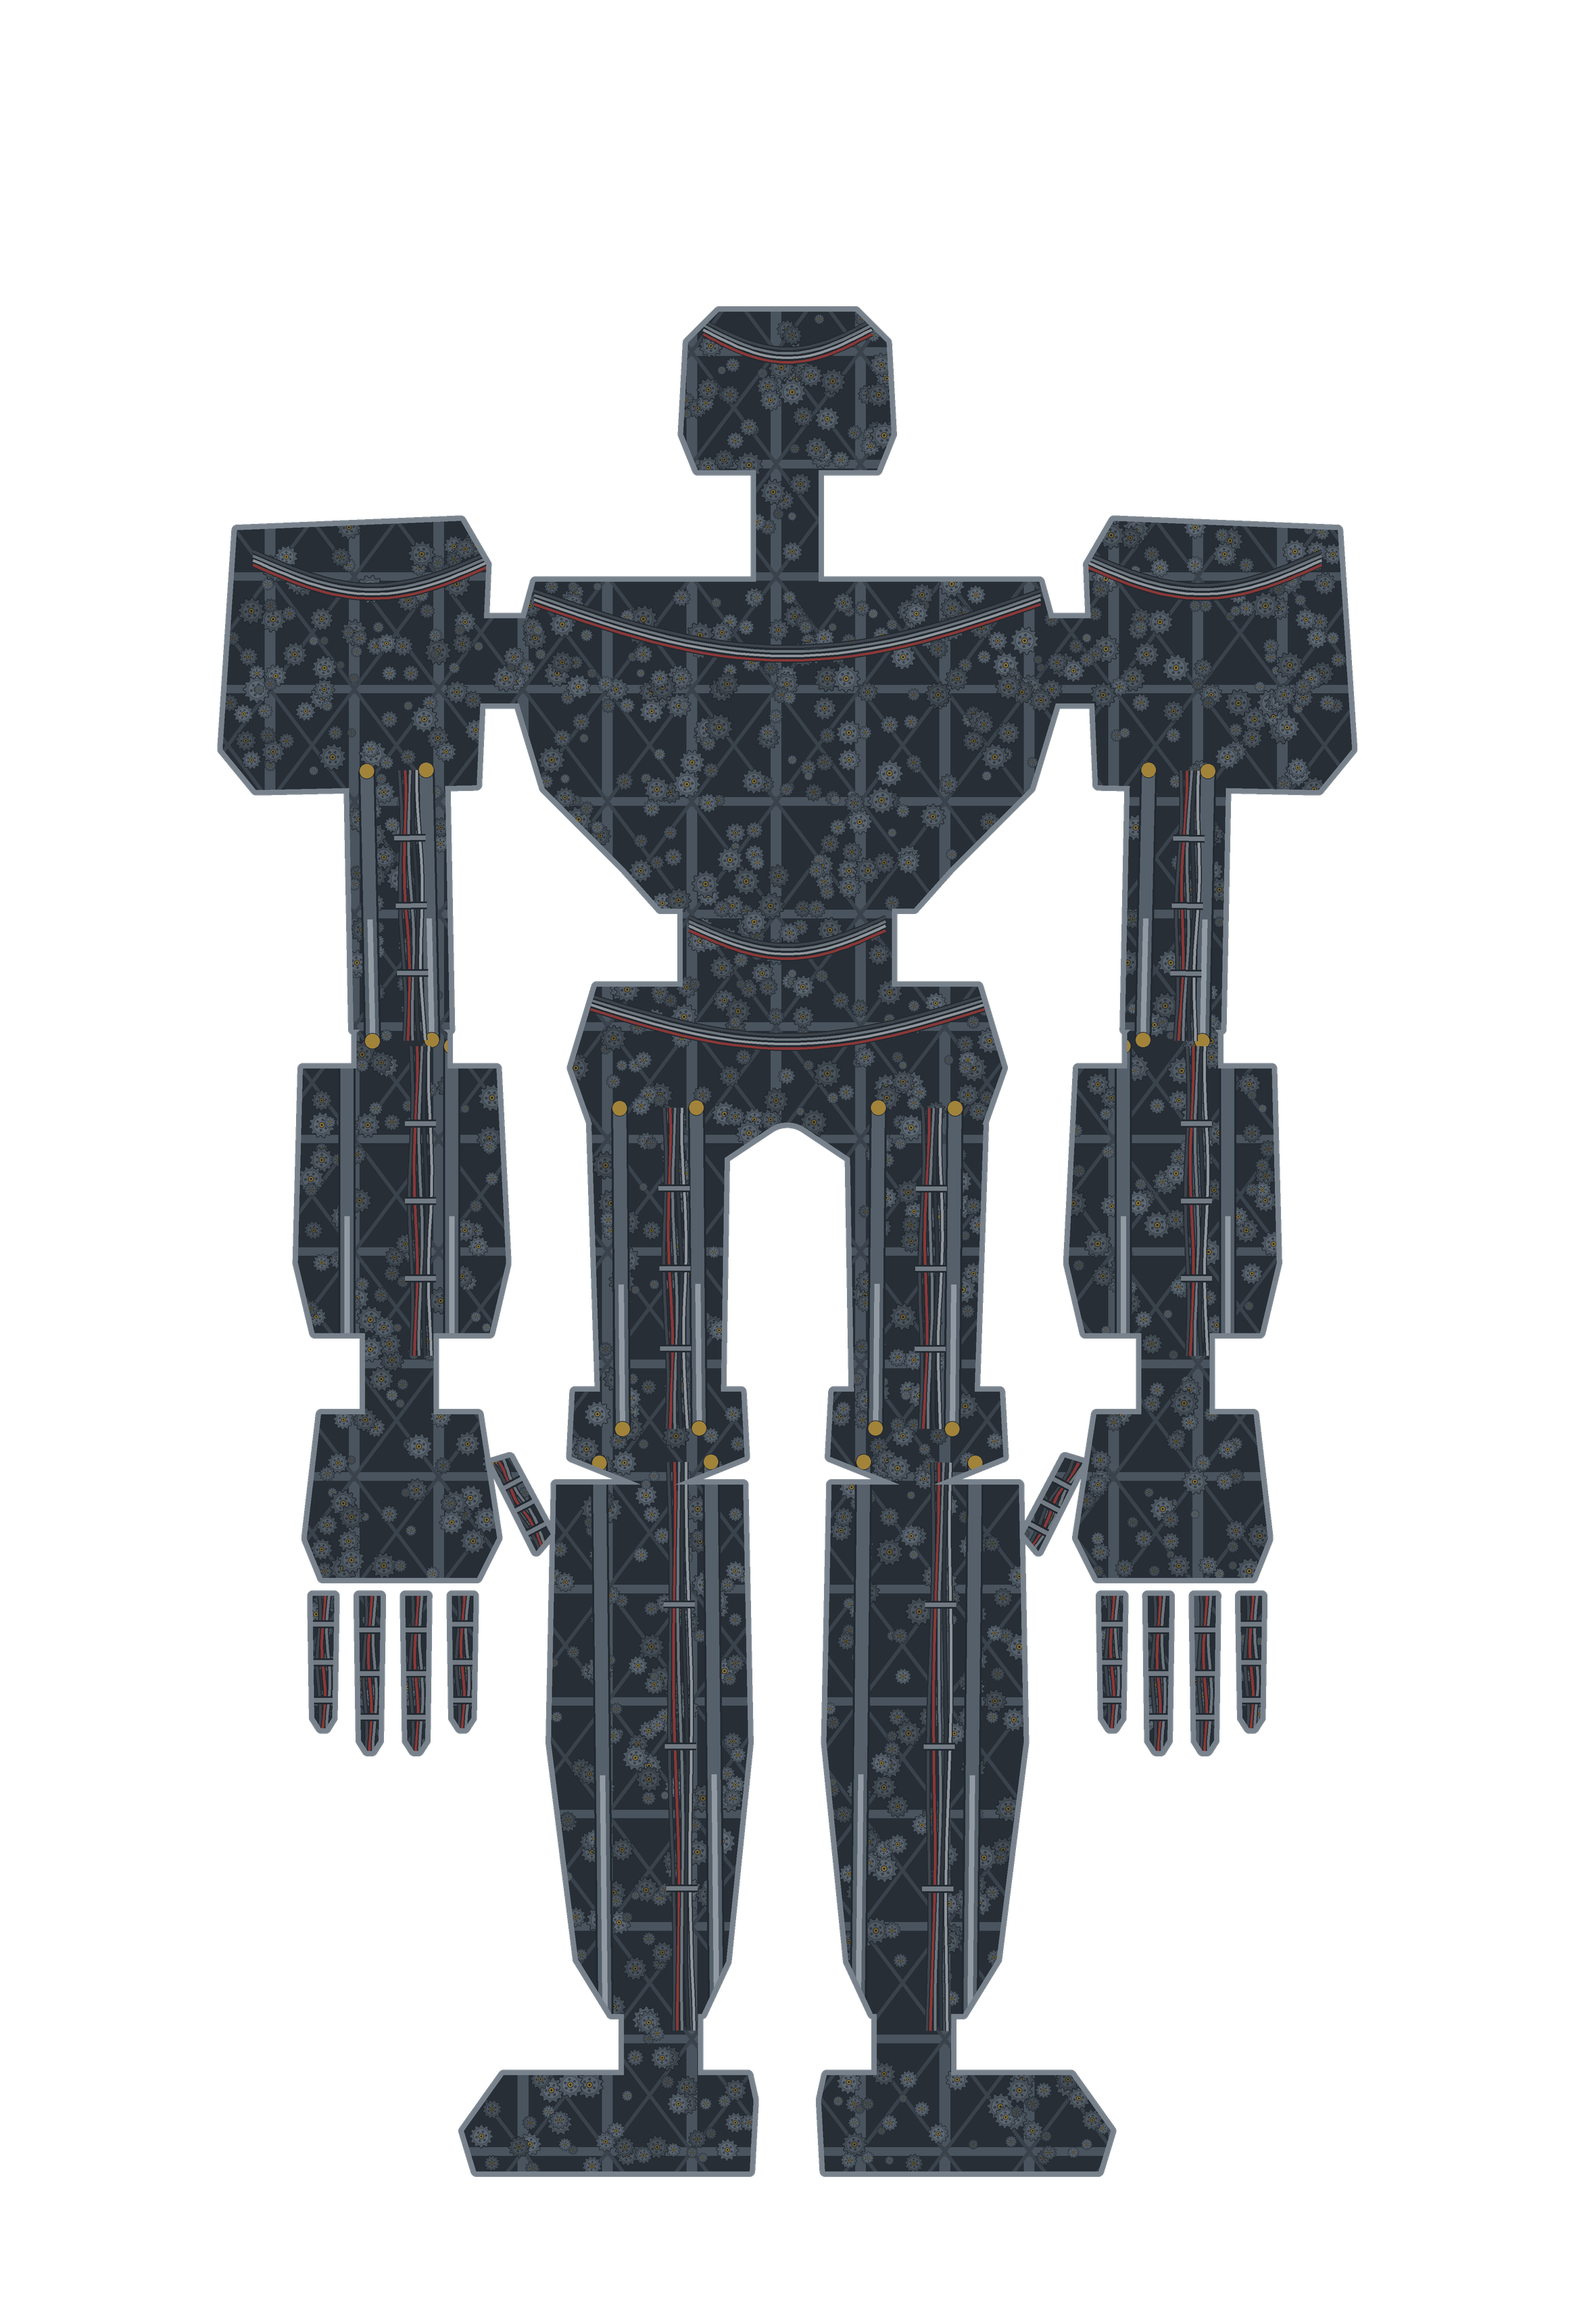
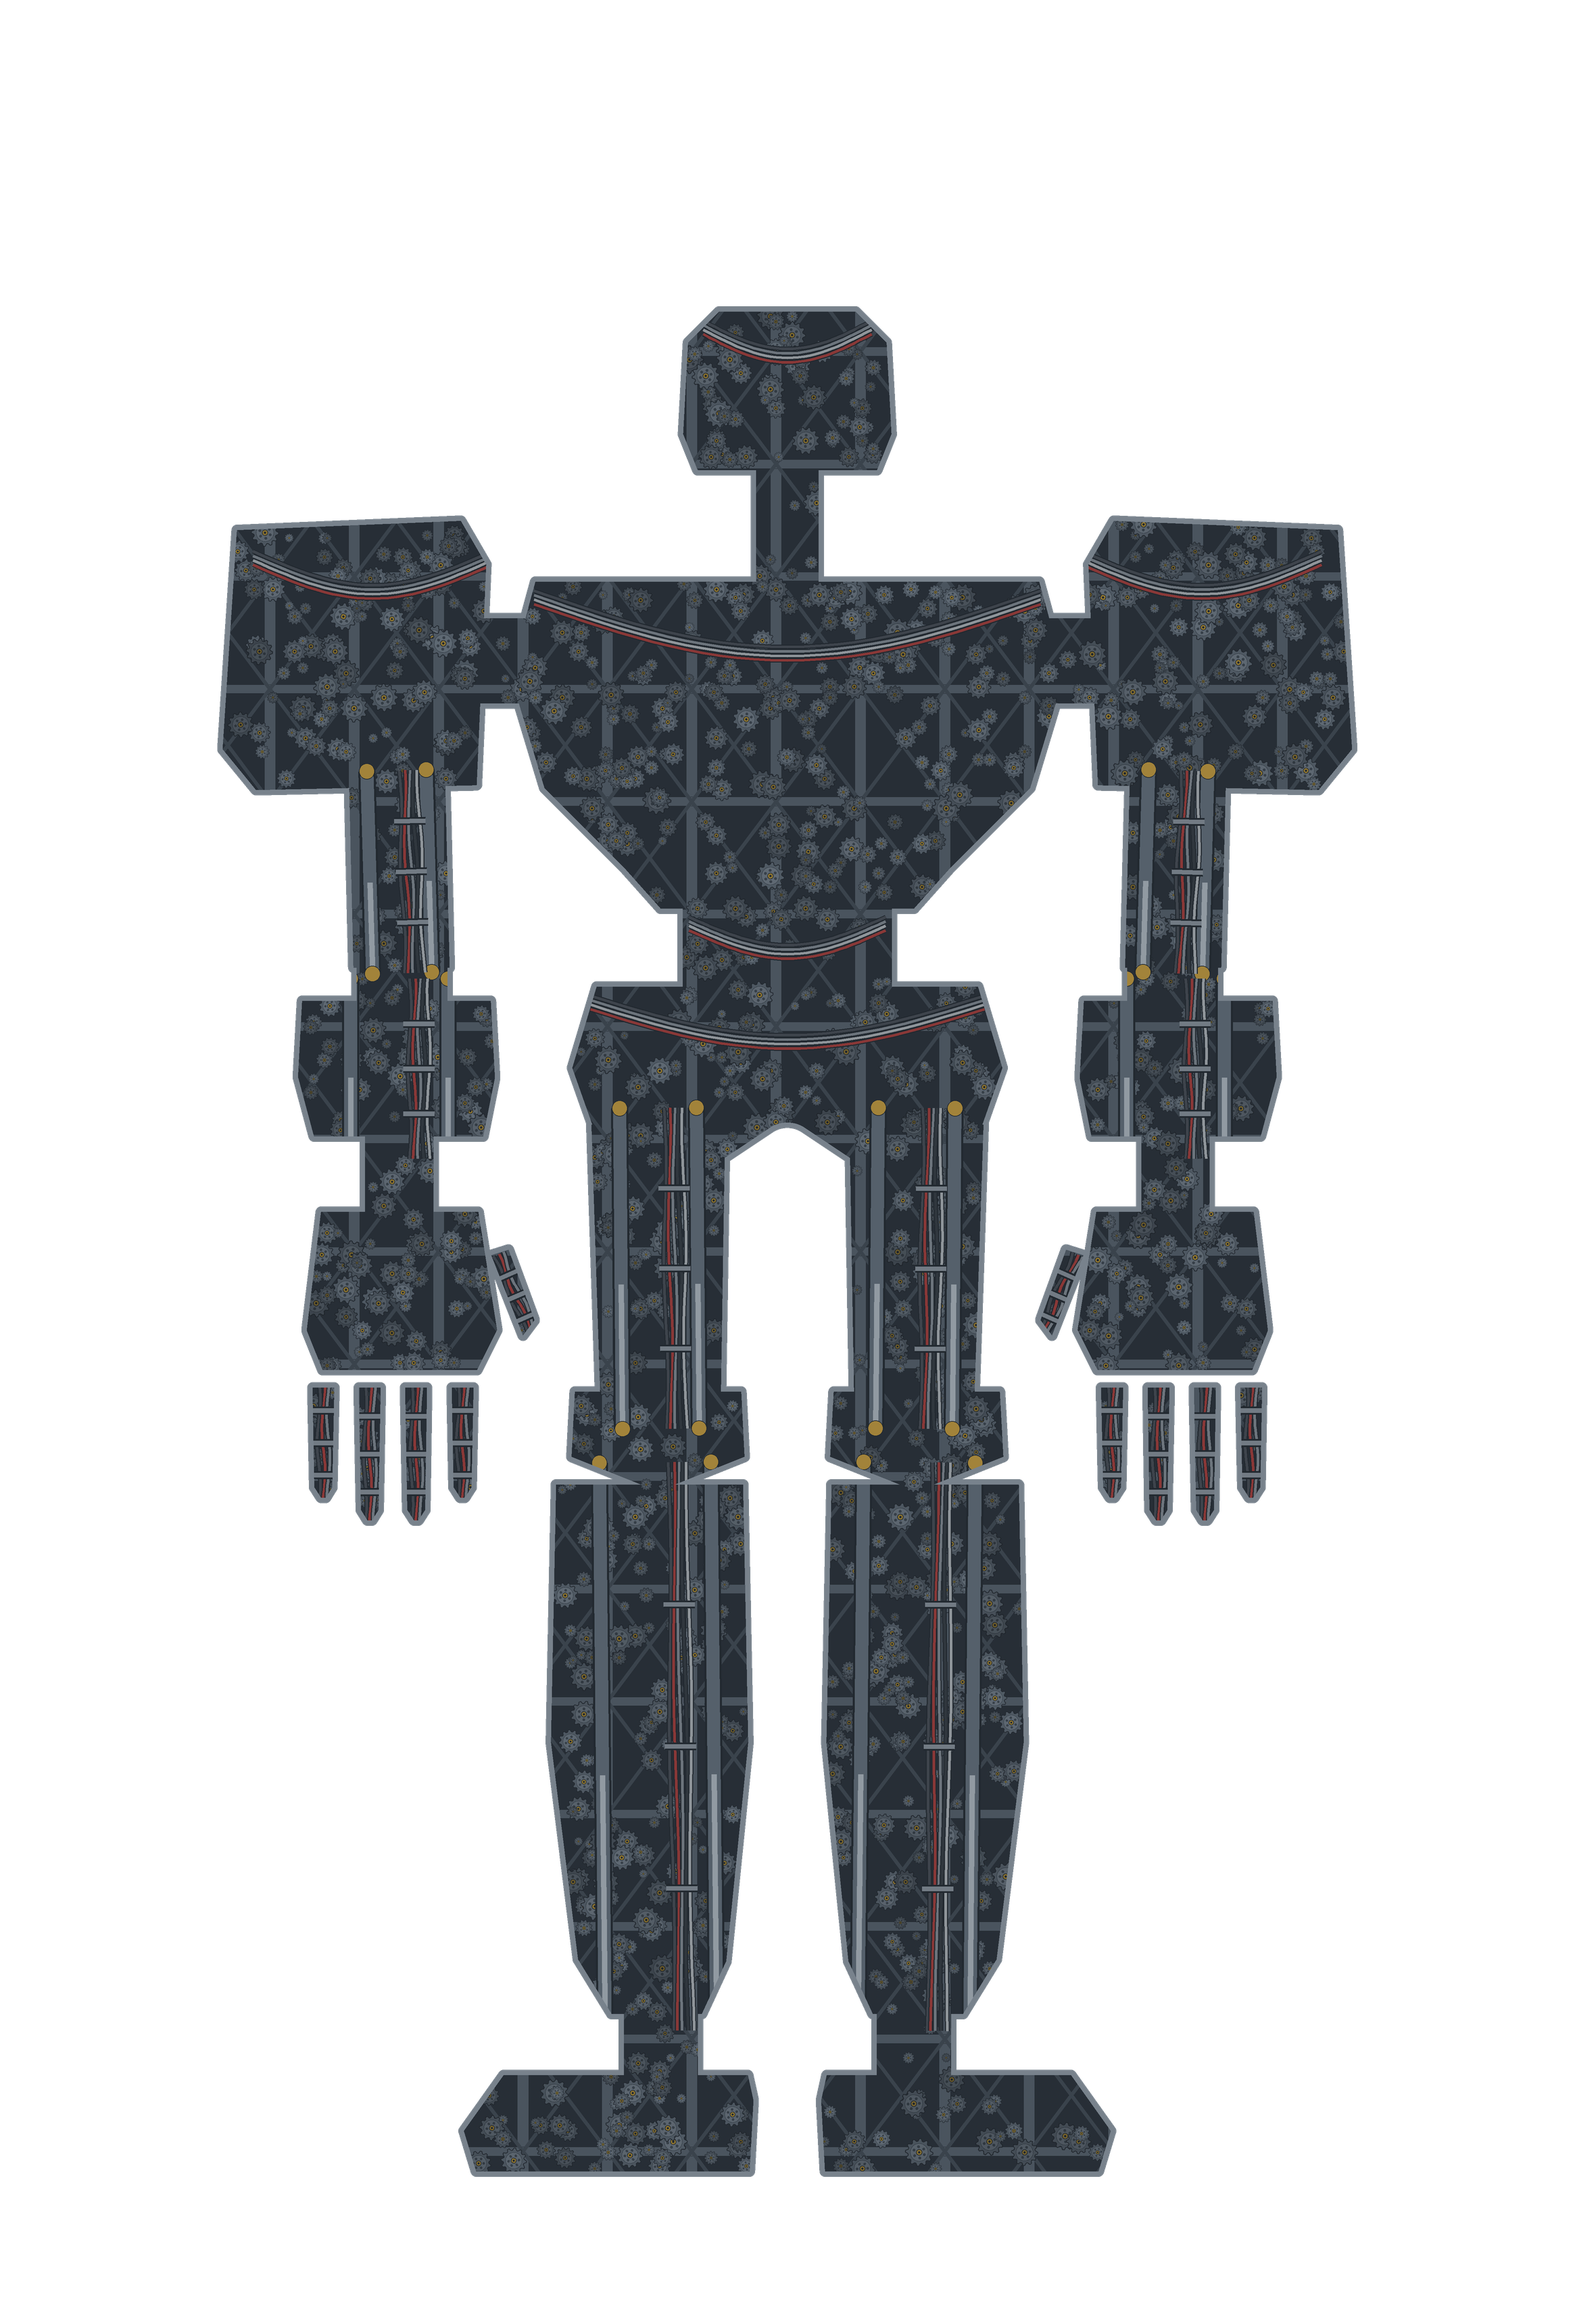
Shorten the arms so the hands hang at crotch to mid-thigh level
The arms reached the knees, which threw off the balance. Upper arm,
forearm, wrist, palm and fingers move up so the hands end around the top
of the thighs, and the forearm and thumb no longer touch the hips and
thighs. The palm catwalks, arm ladders and arm seats follow the hands.

Claude-Session: https://claude.ai/code/session_014wgBvTxHemxFMo2E8WgQDa

diff --git a/tools/art/robot_layers.py b/tools/art/robot_layers.py
@@ -133,18 +133,18 @@ def build_parts():
     left = [
         Part("左肩", "poly", YELLOW, 1.1, pts=[(-0.6, 48.2), (9.0, 48.6), (10.4, 46.2), (10.0, 37.0), (0.6, 36.8), (-1.2, 39.0)]),
         Part("左肩のつなぎ", "poly", DARK, 0.8, pts=[(6, 40.2), (12.6, 40.2), (12.6, 44.8), (6, 44.8)]),
-        limb("左上腕", WHITE, 0.8, [(3.6, 39.0), (8.6, 39.0), (8.8, 28.6), (3.8, 28.6)], (6.1, 38.6), (6.3, 29.0), 2.5),
-        Part("左ひじ", "poly", DARK, 0.8, pts=octagon(6.3, 28.6, 2.6), c=(6.3, 28.6)),
-        limb("左前腕", WHITE, 1.0, [(1.8, 29.0), (10.6, 29.0), (11.0, 21.0), (10.2, 17.6), (2.4, 17.6), (1.6, 21.0)], (6.2, 28.8), (6.2, 17.8), 4.0),
-        Part("左手首", "poly", DARK, 0.6, pts=[(4.4, 14.6), (8.0, 14.6), (8.0, 19.6), (4.4, 19.6)], c=(6.2, 17.0)),
-        Part("左手のひら", "poly", WHITE, 0.7, pts=[(2.8, 16.4), (9.6, 16.4), (10.4, 11.2), (9.4, 9.2), (3.0, 9.2), (2.2, 11.2)]),
-        limb("左親指", WHITE, 0.36, [(9.0, 14.2), (10.3, 14.6), (12.0, 11.4), (11.0, 10.2)], (9.7, 14.0), (11.4, 10.8), 0.7),
+        limb("左上腕", WHITE, 0.8, [(3.6, 39.0), (8.6, 39.0), (8.8, 30.8), (3.8, 30.8)], (6.1, 38.6), (6.3, 31.4), 2.5),
+        Part("左ひじ", "poly", DARK, 0.8, pts=octagon(6.3, 31.0, 2.6), c=(6.3, 31.0)),
+        limb("左前腕", WHITE, 1.0, [(1.8, 31.4), (10.4, 31.4), (10.6, 27.6), (10.0, 24.6), (2.4, 24.6), (1.6, 27.6)], (6.2, 31.2), (6.2, 24.8), 3.8),
+        Part("左手首", "poly", DARK, 0.6, pts=[(4.4, 21.6), (8.0, 21.6), (8.0, 26.4), (4.4, 26.4)], c=(6.2, 24.0)),
+        Part("左手のひら", "poly", WHITE, 0.7, pts=[(2.8, 23.6), (9.6, 23.6), (10.4, 18.6), (9.4, 16.6), (3.0, 16.6), (2.2, 18.6)]),
+        limb("左親指", WHITE, 0.36, [(9.0, 21.6), (10.3, 22.0), (11.4, 19.0), (10.5, 17.8)], (9.7, 21.4), (11.0, 18.4), 0.7),
     ]
     for i in range(4):  # 指（関節ごとに角ばった形。真ん中の2本は長い）
         x = 3.5 + i * 1.65
-        tip = 3.4 if i in (1, 2) else 4.2
-        left.append(limb(f"左指{i + 1}", WHITE, 0.36, [(x - 0.74, 9.6), (x + 0.74, 9.6), (x + 0.66, tip + 0.6), (x + 0.28, tip), (x - 0.28, tip), (x - 0.66, tip + 0.6)],
-                         (x, 9.6), (x, tip), 0.7))
+        tip = 11.6 if i in (1, 2) else 12.4
+        left.append(limb(f"左指{i + 1}", WHITE, 0.36, [(x - 0.74, 17.0), (x + 0.74, 17.0), (x + 0.66, tip + 0.6), (x + 0.28, tip), (x - 0.28, tip), (x - 0.66, tip + 0.6)],
+                         (x, 17.0), (x, tip), 0.7))
     left += [
         Part("左股関節", "poly", DARK, 1.0, pts=octagon(15.4, 25.4, 3.0), c=(15.4, 25.4)),
         limb("左もも", BLUE, 1.0, [(12.0, 27.0), (18.8, 27.0), (18.6, 14.8), (12.4, 14.8)], (15.4, 26.6), (15.5, 15.2), 3.2),

diff --git a/robot/Assets/Scripts/Map/InteriorMap.cs b/robot/Assets/Scripts/Map/InteriorMap.cs
@@ -42,8 +42,8 @@ public static class InteriorMap
         C(12.8f, 27.2f, 27.4f),   // 腰
         C(13.2f, 17.4f, 20.6f),   // 左もも（途中の足場）
         C(22.6f, 26.8f, 20.6f),   // 右もも
-        C(3.4f, 8.8f, 10.3f),     // 左の手のひら
-        C(31.2f, 36.6f, 10.3f),   // 右の手のひら
+        C(3.4f, 8.8f, 17.6f),     // 左の手のひら
+        C(31.2f, 36.6f, 17.6f),   // 右の手のひら
         C(12.2f, 18.6f, 4.6f),    // 左すね
         C(21.4f, 27.8f, 4.6f),    // 右すね
         C(9.0f, 18.6f, -10.8f),   // 左足
@@ -53,8 +53,8 @@ public static class InteriorMap
     public static readonly Ladder[] Ladders =
     {
         L(20f, 27.4f, 49.5f),     // 腰 → 腹 → 胸 → 首 → 頭（体の真ん中を通る）
-        L(6.2f, 10.3f, 41.5f),    // 左肩 → 上腕 → ひじ → 前腕 → 手首 → 手のひら
-        L(33.8f, 10.3f, 41.5f),   // 右肩 → 右手のひら
+        L(6.2f, 17.6f, 41.5f),    // 左肩 → 上腕 → ひじ → 前腕 → 手首 → 手のひら
+        L(33.8f, 17.6f, 41.5f),   // 右肩 → 右手のひら
         L(15.5f, -10.8f, 27.4f),  // 腰 → 左もも → ひざ → 左すね → 足首 → 左足
         L(24.5f, -10.8f, 27.4f),  // 腰 → 右足
     };
@@ -85,8 +85,8 @@ public static class InteriorMap
         ("頭", Rect.MinMaxRect(15f, 49f, 25f, 57f)), ("首", Rect.MinMaxRect(17f, 46.5f, 23f, 49f)),
         ("左肩", Rect.MinMaxRect(-2f, 37f, 10f, 49f)), ("右肩", Rect.MinMaxRect(30f, 37f, 42f, 49f)),
         ("胸", Rect.MinMaxRect(9f, 35f, 31f, 46.5f)), ("腹", Rect.MinMaxRect(14f, 31f, 26f, 35f)), ("腰", Rect.MinMaxRect(11f, 23f, 29f, 31f)),
-        ("左腕", Rect.MinMaxRect(1f, 17f, 11f, 37f)), ("右腕", Rect.MinMaxRect(29f, 17f, 39f, 37f)),
-        ("左手", Rect.MinMaxRect(0f, 2f, 13f, 17f)), ("右手", Rect.MinMaxRect(27f, 2f, 40f, 17f)),
+        ("左腕", Rect.MinMaxRect(1f, 24f, 11f, 37f)), ("右腕", Rect.MinMaxRect(29f, 24f, 39f, 37f)),
+        ("左手", Rect.MinMaxRect(0f, 10f, 11.5f, 24f)), ("右手", Rect.MinMaxRect(28.5f, 10f, 40f, 24f)),
         ("左もも", Rect.MinMaxRect(11f, 15f, 20f, 23f)), ("右もも", Rect.MinMaxRect(20f, 15f, 29f, 23f)),
         ("左すね", Rect.MinMaxRect(10f, -6f, 20f, 15f)), ("右すね", Rect.MinMaxRect(20f, -6f, 30f, 15f)),
         ("左足", Rect.MinMaxRect(7f, -13f, 20f, -6f)), ("右足", Rect.MinMaxRect(20f, -13f, 33f, -6f)),

diff --git a/robot/Assets/Scripts/Core/Stations.cs b/robot/Assets/Scripts/Core/Stations.cs
@@ -25,8 +25,8 @@ public static class Stations
     {
         new StationDef { Name = "左脚", Type = StationType.Leg,  Side = -1, Pos = new Vector2(13f, 4.6f) * InteriorMap.Scale, ConsoleOffset = new Vector2(-1.5f, 0.95f), Color = Prims.Hex("#4fd2ff") },
         new StationDef { Name = "右脚", Type = StationType.Leg,  Side =  1, Pos = new Vector2(27f, 4.6f) * InteriorMap.Scale, ConsoleOffset = new Vector2(1.5f, 0.95f), Color = Prims.Hex("#4fd2ff") },
-        new StationDef { Name = "左腕", Type = StationType.Arm,  Side = -1, Pos = new Vector2(3.9f, 10.3f) * InteriorMap.Scale,      ConsoleOffset = new Vector2(-1.4f, 0.95f), Color = Prims.Hex("#ff9a3c") },
-        new StationDef { Name = "右腕", Type = StationType.Arm,  Side =  1, Pos = new Vector2(36.1f, 10.3f) * InteriorMap.Scale,     ConsoleOffset = new Vector2(1.4f, 0.95f),  Color = Prims.Hex("#ff9a3c") },
+        new StationDef { Name = "左腕", Type = StationType.Arm,  Side = -1, Pos = new Vector2(3.9f, 17.6f) * InteriorMap.Scale,      ConsoleOffset = new Vector2(-1.4f, 0.95f), Color = Prims.Hex("#ff9a3c") },
+        new StationDef { Name = "右腕", Type = StationType.Arm,  Side =  1, Pos = new Vector2(36.1f, 17.6f) * InteriorMap.Scale,     ConsoleOffset = new Vector2(1.4f, 0.95f),  Color = Prims.Hex("#ff9a3c") },
         new StationDef { Name = "頭部砲", Type = StationType.Head, Side = 0, Pos = new Vector2(21.8f, 49.5f) * InteriorMap.Scale,     ConsoleOffset = new Vector2(1.5f, 0.95f),  Color = Prims.Hex("#b8ff5a") },
         new StationDef { Name = "動力炉", Type = StationType.Core, Side = 0, Pos = new Vector2(14.2f, 35.6f) * InteriorMap.Scale,    ConsoleOffset = new Vector2(1.2f, 0.95f), Color = Prims.Hex("#ffd23f") },
     };
